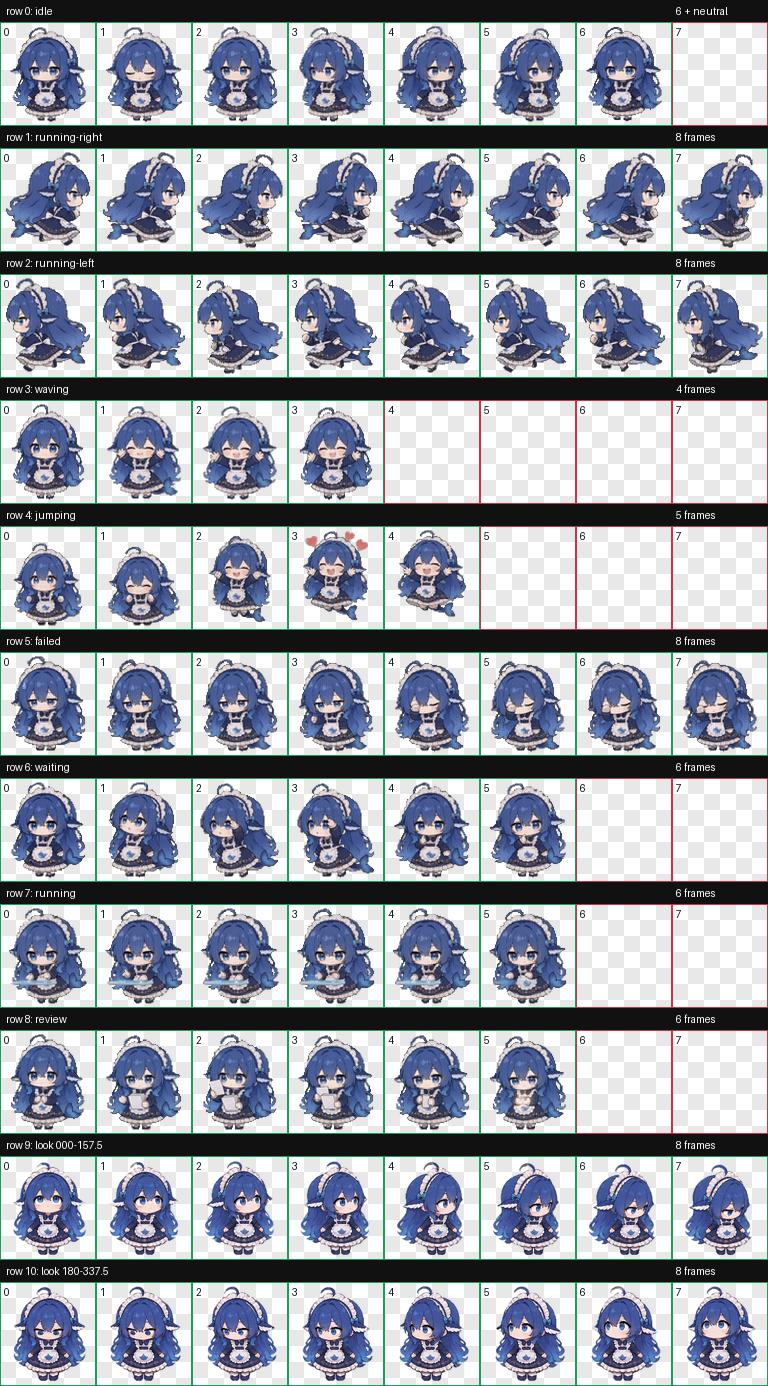
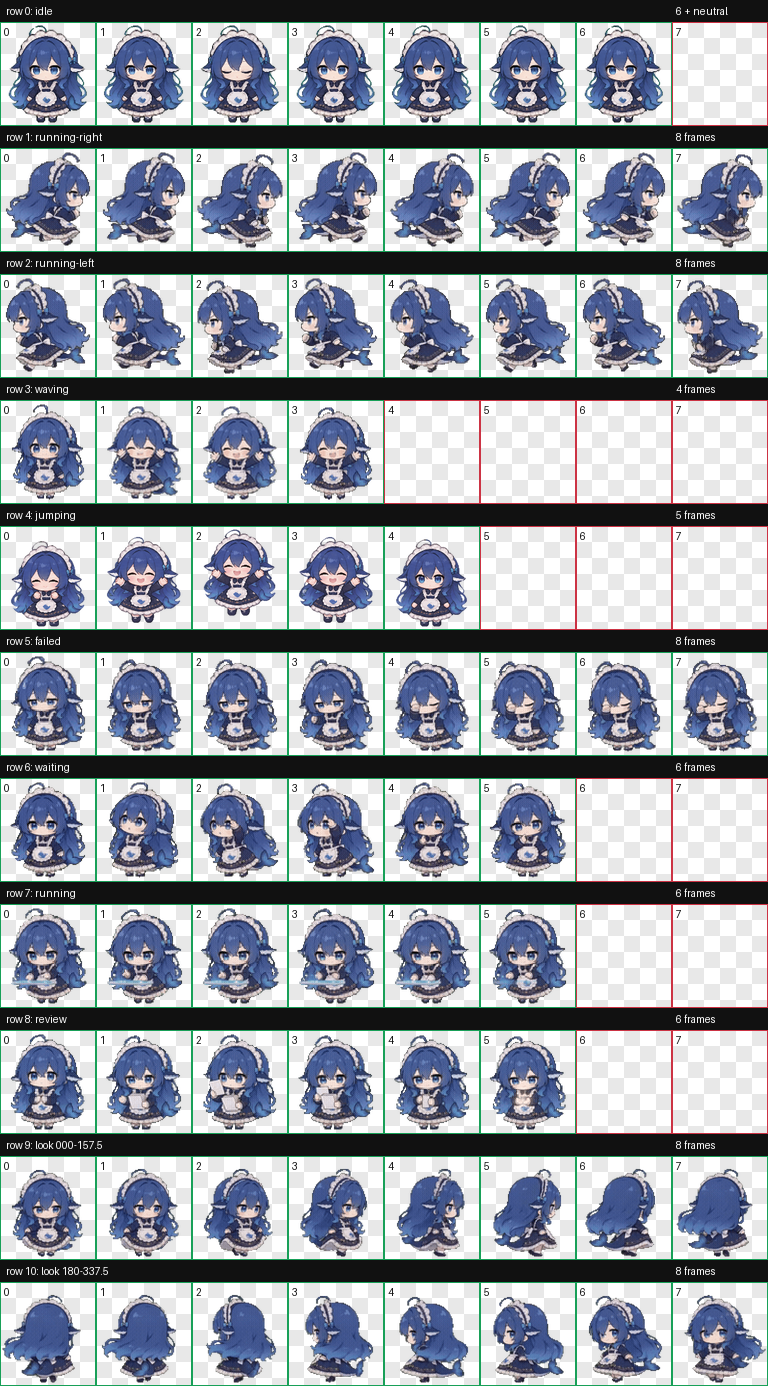
Use original 360 degree turn and smooth idle and jump poses

Changed region(s): [[0.0, 0.8377, 1.0, 1.0], [0.0, 0.0, 0.875, 0.0931], [0.0, 0.3723, 0.625, 0.4654]]

diff --git a/README.md b/README.md
@@ -4,9 +4,11 @@
 
 ## 中文
 
-这是为 Codex 制作的 DeepSeek 鲸鱼娘桌宠。它包含九种标准动画和 16 个注视方向，并提供可安装文件、预览和完整的状态说明；不包含网站或插件运行时。
+这是为 Codex 制作的 DeepSeek 鲸鱼娘桌宠。它包含九种标准动画和取自原版转身动画的 16 个转向姿态，并提供可安装文件、预览和完整的状态说明；不包含网站或插件运行时。
 
-![DeepSeek 鲸鱼娘动画与注视方向预览](preview.png)
+![DeepSeek 鲸鱼娘动画与转身姿态预览](preview.png)
+
+![16 帧 360° 转身动图](turn-preview.gif)
 
 ### 功能与触发状态
 
@@ -24,26 +26,26 @@
 
 状态由 Codex 自动选择。鼠标悬停和拖动是可以直接手动触发的交互；其他状态取决于 Codex 当前任务状态，不需要在 README 中配置快捷键。
 
-### 注视方向
+### 22.5° 转身
 
-宠物会根据鼠标相对位置切换到最近的注视角度。角度从正上方开始顺时针计算，每 22.5° 一个姿势：
+Codex 根据鼠标相对宠物的位置计算角度：指针在上方时为 0°，顺时针每 22.5° 选取一帧。这里用原版 360° 转身动画逐帧取样，0° 显示正面、90° 显示右侧、180° 显示背面、270° 显示左侧：
 
-| 角度 | 注视方向 | 角度 | 注视方向 |
+| 角度 | 转身姿态 | 角度 | 转身姿态 |
 | ---: | --- | ---: | --- |
-| 000° | 上 | 180° | 下 |
-| 022.5° | 右上 | 202.5° | 左下 |
-| 045° | 右上 | 225° | 左下 |
-| 067.5° | 右上 | 247.5° | 左下 |
-| 090° | 右 | 270° | 左 |
-| 112.5° | 右下 | 292.5° | 左上 |
-| 135° | 右下 | 315° | 左上 |
-| 157.5° | 右下 | 337.5° | 左上 |
+| 000° | 正面 | 180° | 背面 |
+| 022.5° | 正面稍向右 | 202.5° | 背面稍向左 |
+| 045° | 右前侧 | 225° | 左后侧 |
+| 067.5° | 接近右侧 | 247.5° | 接近左侧 |
+| 090° | 右侧 | 270° | 左侧 |
+| 112.5° | 右后侧 | 292.5° | 左前侧 |
+| 135° | 接近背面 | 315° | 接近正面 |
+| 157.5° | 背面稍向右 | 337.5° | 正面稍向左 |
 
-指针处于宠物正前方的中性死区时使用普通 idle，而不是把 000° 当成正脸。16 个方向按一圈连续排列。
+Codex 只在 idle、running、waving 状态显示方向帧；悬停在宠物身上会触发 jumping，等待、失败和结果检查等状态也会覆盖方向帧。体验转身时，请把鼠标放在宠物周围、不要压在宠物图像上。Codex 按 22.5° 选取最接近的一张静态帧，图集本身无法修改选帧速度或增加帧间补间。
 
 ### 动画帧与图集布局
 
-图集使用 Codex V2 格式，尺寸为 1536 × 2288 像素；共 8 列 × 11 行，每格 192 × 208 像素。九种标准状态各占一行，最后两行合计 16 个注视姿势。
+图集使用 Codex V2 格式，尺寸为 1536 × 2288 像素；共 8 列 × 11 行，每格 192 × 208 像素。九种标准状态各占一行，最后两行合计 16 个转身姿势。
 
 | 行 | 状态 | 使用帧数 | 单帧显示时间 |
 | ---: | --- | ---: | --- |
@@ -56,7 +58,7 @@
 | 6 | waiting | 6 | 前 5 帧各 150 ms，末帧 260 ms |
 | 7 | running | 6 | 前 5 帧各 120 ms，末帧 220 ms |
 | 8 | review | 6 | 前 5 帧各 150 ms，末帧 280 ms |
-| 9–10 | 注视方向 | 16 | 按顺时针角度连续排列 |
+| 9–10 | 转身方向 | 16 | 顺时针每 22.5° 一帧 |
 
 pet.json 声明宠物 ID、显示名称、V2 版本号和图集文件名。动画状态及其触发由 Codex 控制。
 
@@ -79,12 +81,13 @@ macOS 或 Linux 可以在仓库目录运行：
 
 - pet.json：Codex 宠物清单。
 - spritesheet.webp：透明背景的 V2 动画图集。
-- preview.png：状态及视线方向预览图。
+- preview.png：状态及转身姿态预览图。
+- turn-preview.gif：16 个角度循环预览。
 - NOTICE.md：来源署名与素材使用说明。
 
 ### 校验情况
 
-图集已按 Codex V2 的尺寸、格数和清单格式校验，独立视觉检查通过。个别中间对角注视方向有轻微辨识度提示；四个主方向及整体方向循环通过检查。
+图集已按 Codex V2 的尺寸、格数、透明背景和清单格式校验。16 个转身帧来自同一段原版 360° 动画；待机帧去掉了末段突然转头，跳跃帧补齐下降和落地。转身的末帧切回首帧时，头发仍有轻微摆动差异。
 
 ### 来源与授权
 
@@ -103,9 +106,11 @@ macOS 或 Linux 可以在仓库目录运行：
 
 ## English
 
-This is a DeepSeek whale-girl desktop pet for Codex. It includes nine standard animations and a 16-direction gaze atlas, plus installable files, a preview, and a full state guide. It does not include website or plugin runtime code.
+This is a DeepSeek whale-girl desktop pet for Codex. It includes nine standard animations and 16 turning poses sampled from the original character animation, plus installable files, a preview, and a full state guide. It does not include website or plugin runtime code.
 
-![DeepSeek whale-girl animation and gaze preview](preview.png)
+![DeepSeek whale-girl animation and turning preview](preview.png)
+
+![16-frame 360-degree turn](turn-preview.gif)
 
 ### Features and triggers
 
@@ -123,26 +128,26 @@ This is a DeepSeek whale-girl desktop pet for Codex. It includes nine standard a
 
 Codex selects task states automatically. Hovering and dragging are direct pointer interactions; the other states follow Codex's current task status and do not require shortcut configuration in this repository.
 
-### Gaze directions
+### 22.5° turning
 
-The pet chooses the nearest gaze angle based on the pointer's position relative to the pet. Angles start at the top and increase clockwise, with one pose every 22.5 degrees:
+Codex calculates the pointer angle relative to the pet: 0° when the pointer is above it, then clockwise in 22.5° steps. The poses are sampled from the original 360° turn animation: 0° shows the front, 90° the right side, 180° the back, and 270° the left side.
 
-| Angle | Gaze | Angle | Gaze |
+| Angle | Facing | Angle | Facing |
 | ---: | --- | ---: | --- |
-| 000° | Up | 180° | Down |
-| 022.5° | Up-right | 202.5° | Down-left |
-| 045° | Up-right | 225° | Down-left |
-| 067.5° | Up-right | 247.5° | Down-left |
-| 090° | Right | 270° | Left |
-| 112.5° | Down-right | 292.5° | Up-left |
-| 135° | Down-right | 315° | Up-left |
-| 157.5° | Down-right | 337.5° | Up-left |
+| 000° | Front | 180° | Back |
+| 022.5° | Slightly right of front | 202.5° | Slightly left of back |
+| 045° | Front-right | 225° | Back-left |
+| 067.5° | Near right profile | 247.5° | Near left profile |
+| 090° | Right profile | 270° | Left profile |
+| 112.5° | Back-right | 292.5° | Front-left |
+| 135° | Near back | 315° | Near front |
+| 157.5° | Slightly right of back | 337.5° | Slightly left of front |
 
-When the pointer is in the neutral dead zone directly in front of the pet, Codex uses the normal idle animation; 000° is not used as a front-facing pose. The 16 poses form one clockwise loop.
+Codex shows direction frames only during idle, running, and waving. Hovering directly over the pet triggers jumping, while waiting, failed, and review also override the direction frames. To see the turn, move the pointer around the pet without hovering on it. Codex selects the nearest static pose in 22.5° steps; the atlas cannot change the selection rate or add runtime interpolation.
 
 ### Animation frames and atlas layout
 
-The atlas uses the Codex V2 format. It is 1536 × 2288 pixels, arranged as 8 columns × 11 rows of 192 × 208 pixel cells. The nine standard states each occupy one row; the final two rows contain the 16 gaze poses.
+The atlas uses the Codex V2 format. It is 1536 × 2288 pixels, arranged as 8 columns × 11 rows of 192 × 208 pixel cells. The nine standard states each occupy one row; the final two rows contain the 16 turning poses.
 
 | Row | State | Used frames | Frame duration |
 | ---: | --- | ---: | --- |
@@ -155,7 +160,7 @@ The atlas uses the Codex V2 format. It is 1536 × 2288 pixels, arranged as 8 col
 | 6 | waiting | 6 | First 5 frames: 150 ms each; final frame: 260 ms |
 | 7 | running | 6 | First 5 frames: 120 ms each; final frame: 220 ms |
 | 8 | review | 6 | First 5 frames: 150 ms each; final frame: 280 ms |
-| 9–10 | Gaze directions | 16 | Continuous clockwise angle sequence |
+| 9–10 | Turning poses | 16 | One frame every 22.5° clockwise |
 
 pet.json declares the pet ID, display name, V2 version, and atlas filename. Codex controls animation state selection and triggering.
 
@@ -178,12 +183,13 @@ Then open Codex **Settings → Appearance → Pets** and select **DeepSeek鲸鱼
 
 - pet.json: Codex pet manifest.
 - spritesheet.webp: transparent V2 animation atlas.
-- preview.png: preview of the states and gaze directions.
+- preview.png: preview of the states and turning poses.
+- turn-preview.gif: looping preview of all 16 angles.
 - NOTICE.md: source attribution and asset use terms.
 
 ### Validation
 
-The atlas passed Codex V2 dimension, cell-layout, and manifest checks, and passed independent visual review. A few intermediate diagonal gaze directions have minor readability notes; the four cardinal directions and the overall direction loop passed review.
+The atlas passed Codex V2 dimension, cell-layout, transparent-background, and manifest checks. The 16 turning frames come from one original 360° animation; the idle sequence no longer makes an abrupt late head turn, and the jump now includes descent and landing. A small hair-position difference remains where the last turn frame returns to the first.
 
 ### Source and usage terms
 
